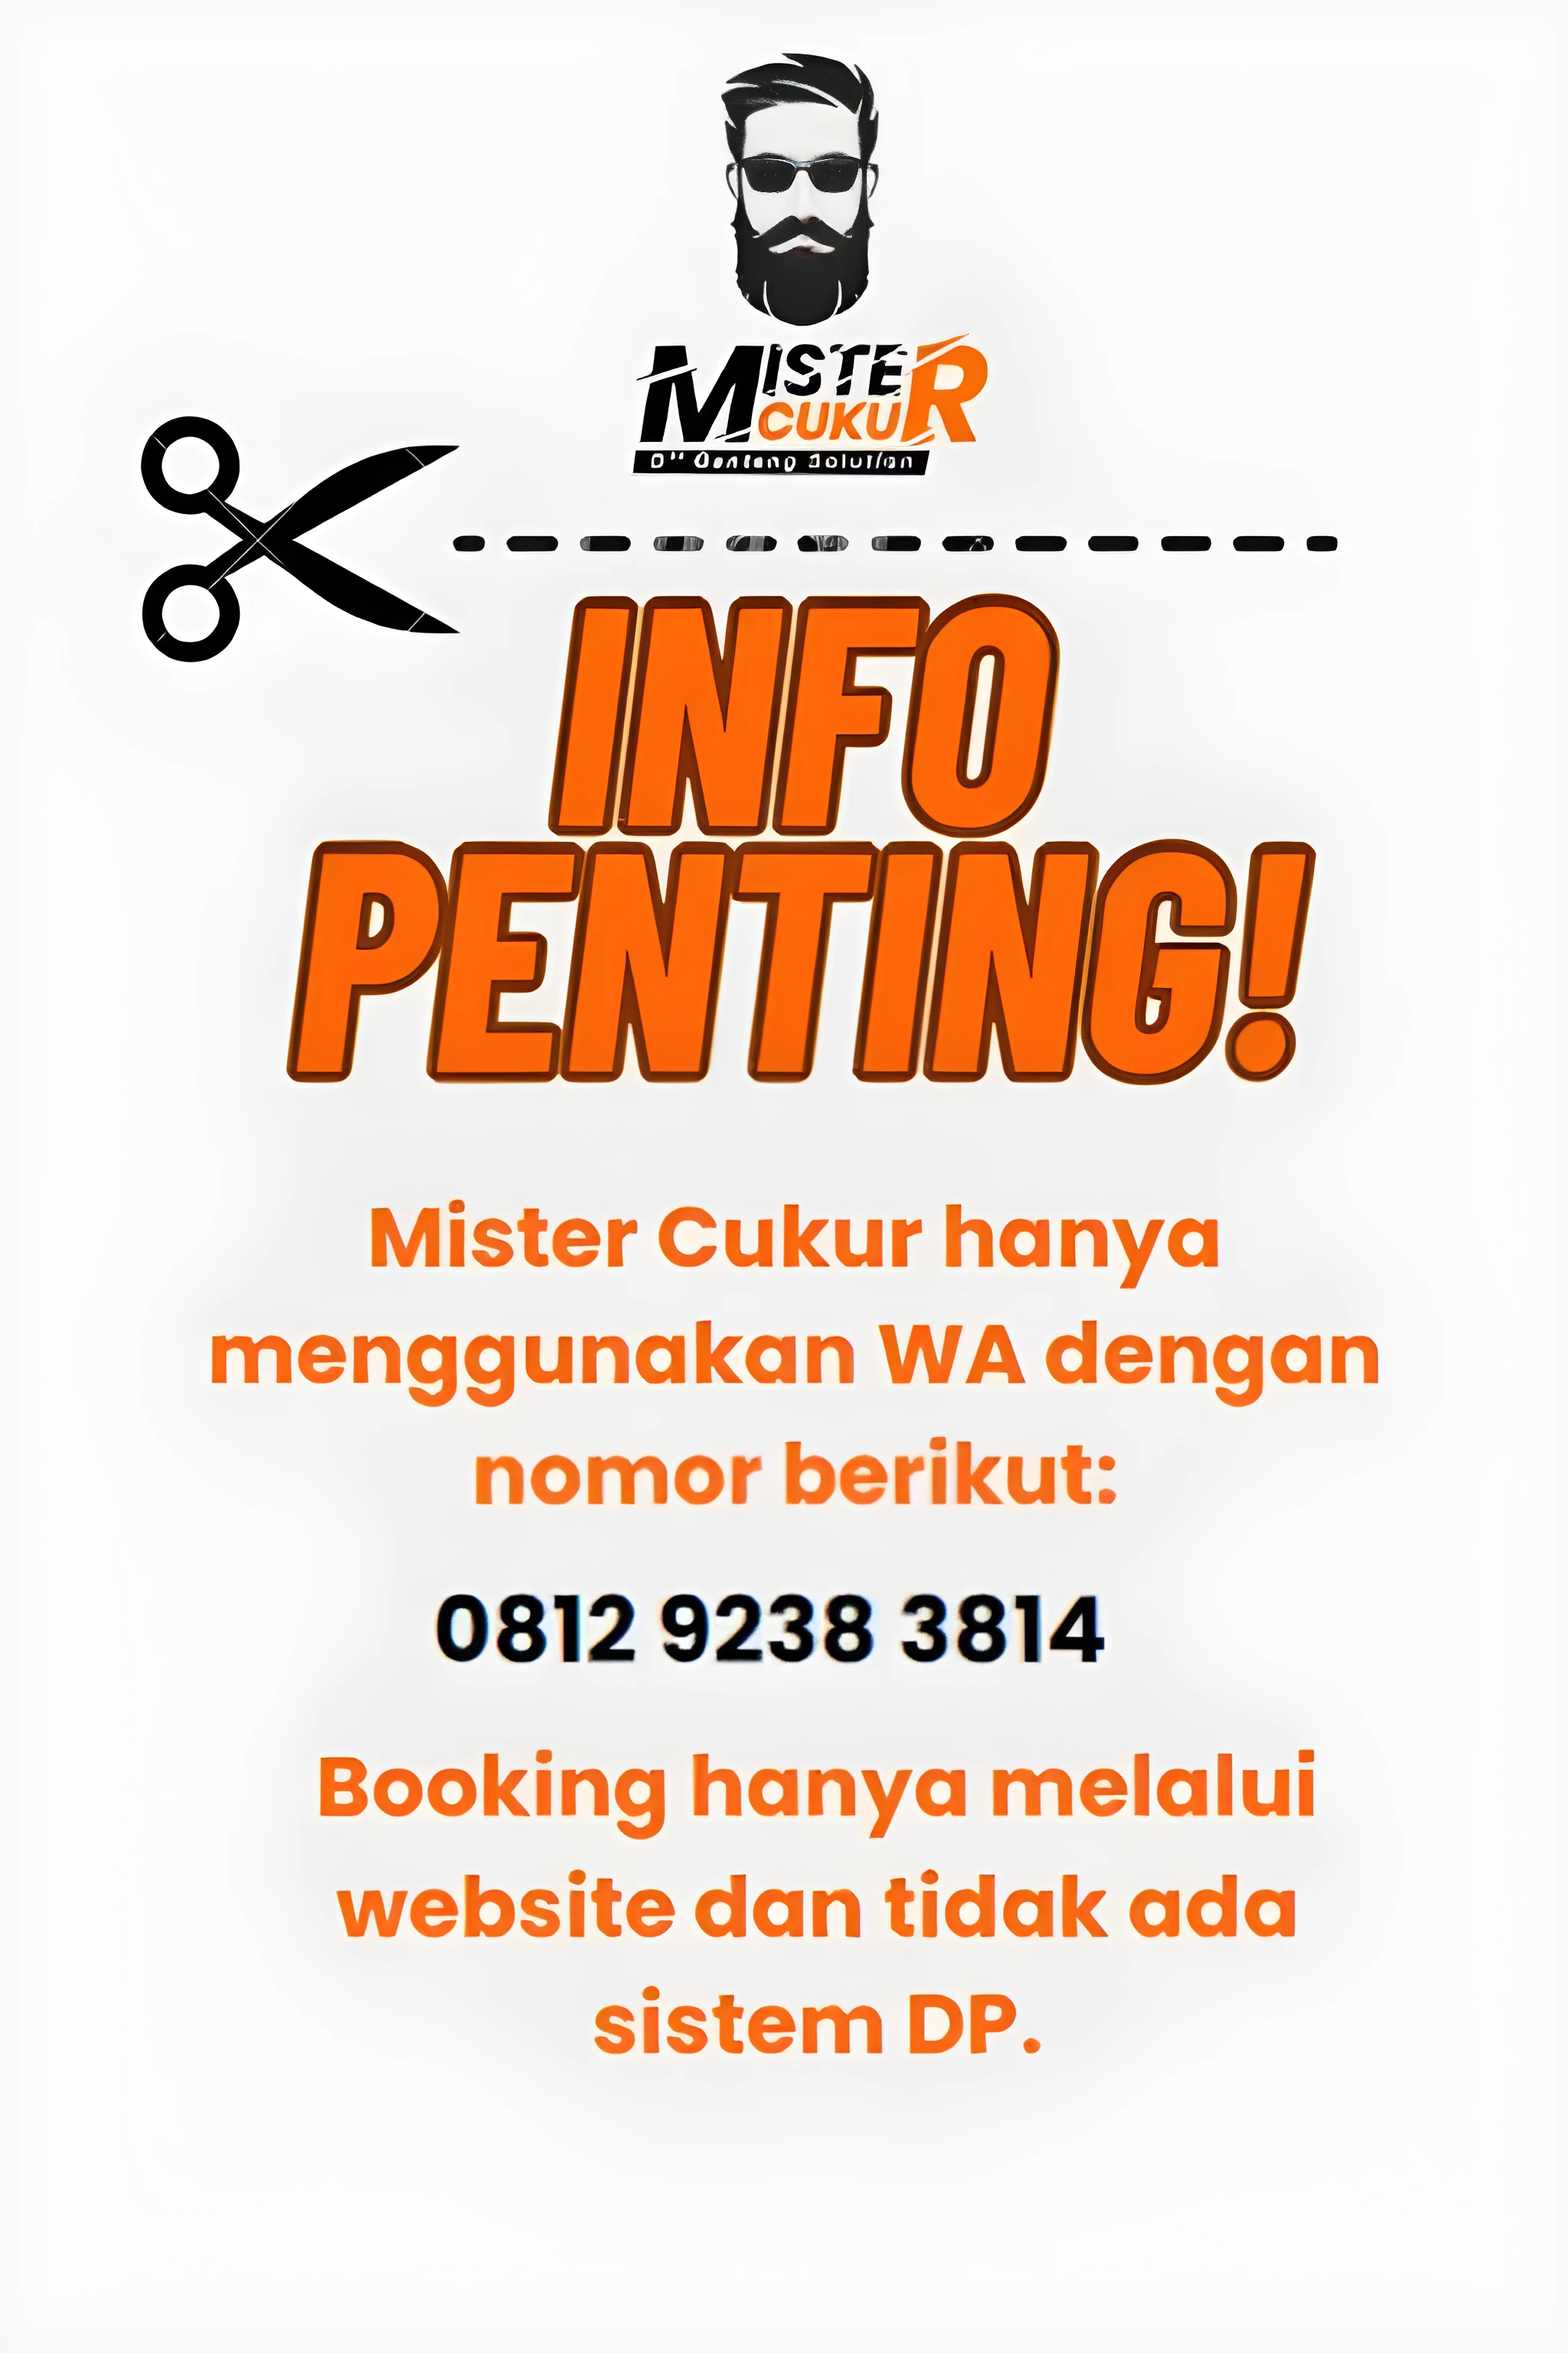
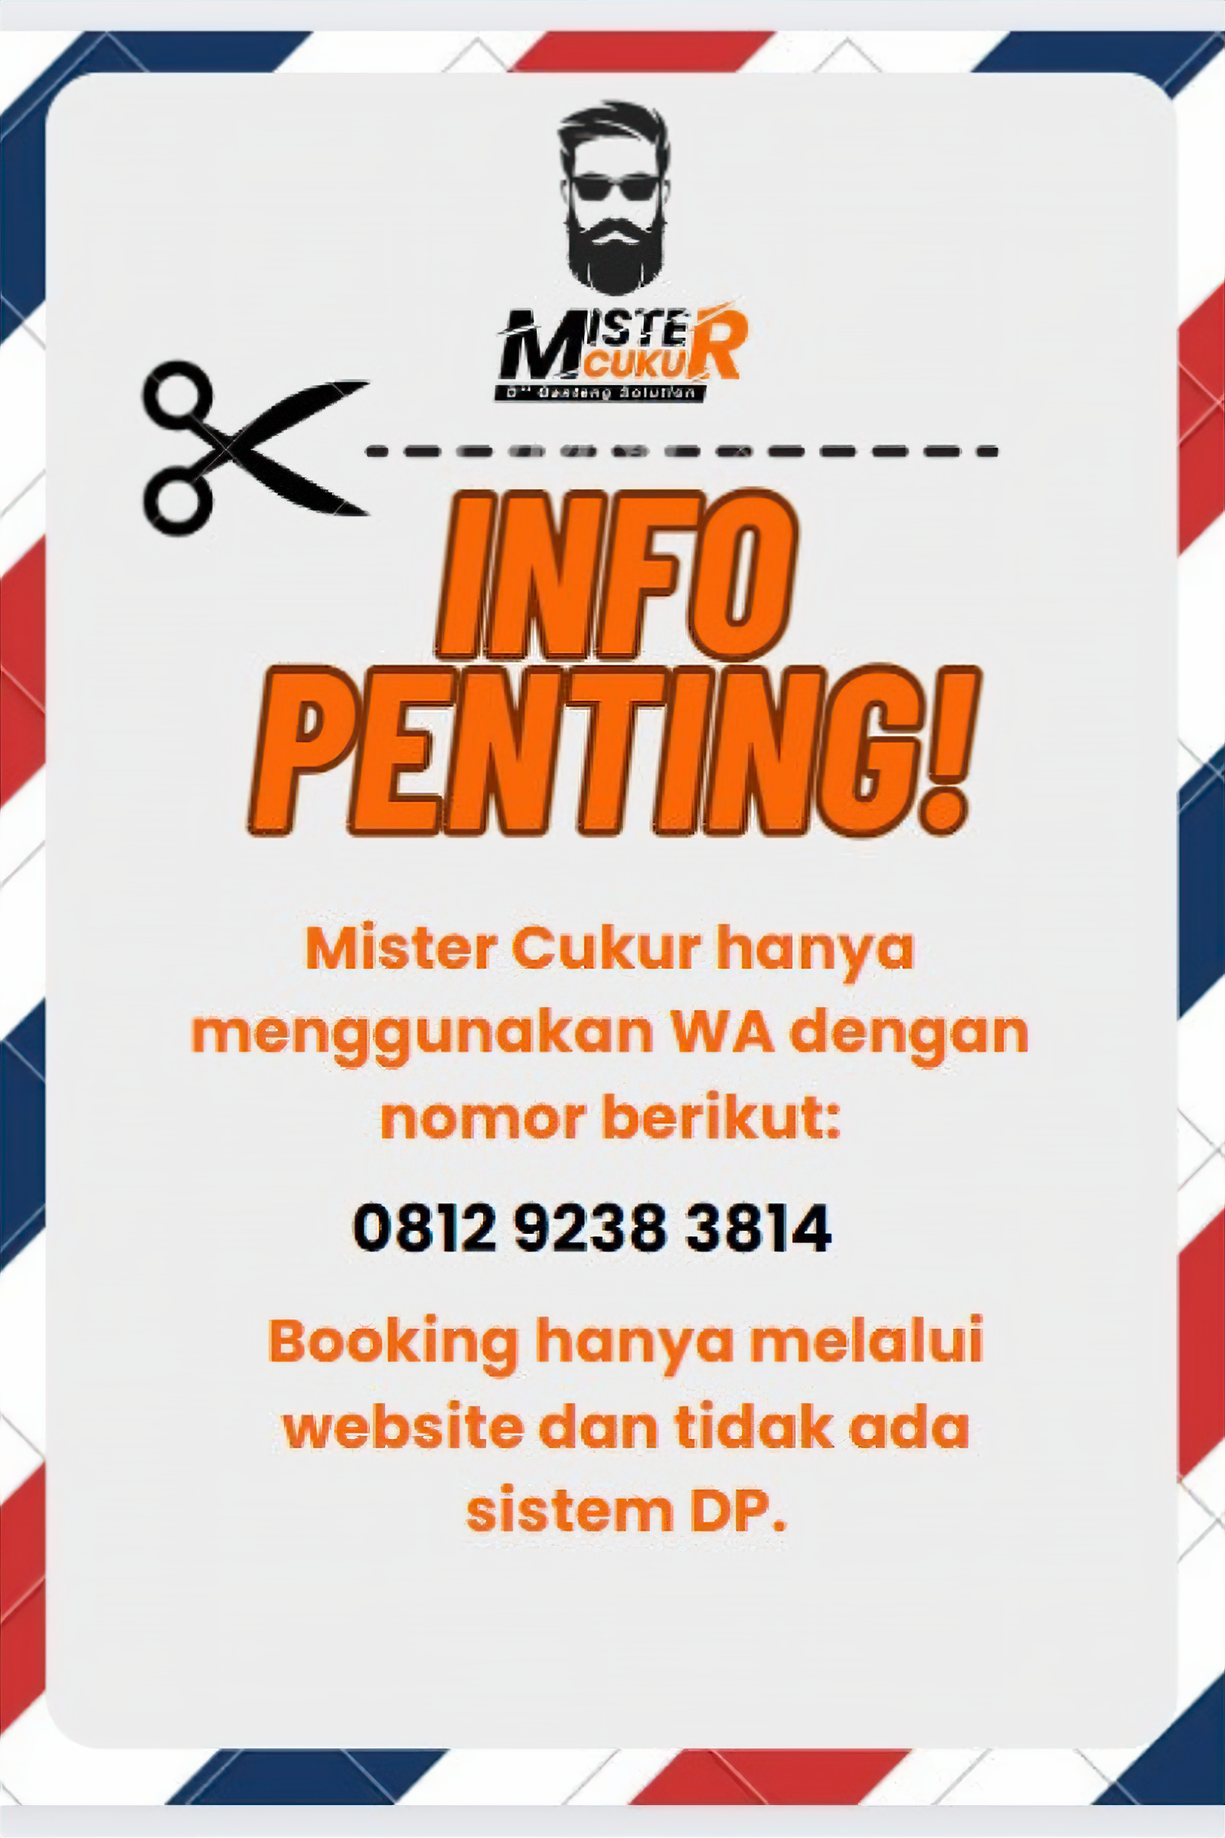
update

diff --git a/components/content.tsx b/components/content.tsx
@@ -42,11 +42,12 @@ const Content = () => {
 
       {/* BUAT JANJI  */}
       <div
-        className="content-1 mb-32 md:mb-0 bg-[rgba(0,0,0,0.8)] text-[#ededed] flex flex-col justify-center h-60"
+        className="content-1 mb-32 md:mb-0 bg-[#ededed] text-black flex flex-col justify-center h-60"
         style={{ alignItems: "center" }}
       >
         <div className="text-center text-sm  md:text-lg font-medium">
-          Ingin buat janji dengan barber kami?
+          Ingin buat janji dengan{" "}
+          <span className="text-[#FA6709]">Mister Cukur</span> ?
         </div>
         <div className="text-center mt-3 flex justify-center flex-col">
           <PopoverButton content={<CalendarComp />} />
@@ -59,10 +60,7 @@ const Content = () => {
       <Layanan />
 
       {/*  TESTIMONI */}
-      <div
-        id="testimoni"
-        className=" bg-[rgba(0,0,0,0.8)] text-[#ededed] py-20 "
-      >
+      <div id="testimoni" className=" bg-[#ededed] text-black py-20 ">
         <div className="w-full flex justify-center">
           <div className="w-11/12 text-sm md:text-2xl flex items-center mb-3">
             Testimoni <DrawingPinIcon className="ml-2 h-4 w-4 md:h-6 md:w-6" />

diff --git a/components/utils/calendar.tsx b/components/utils/calendar.tsx
@@ -46,7 +46,8 @@ const AlertDialogComp = ({ time, date }: any) => {
       <AlertDialog.Content style={{ maxWidth: 450 }}>
         <AlertDialog.Title>Buat Janji?</AlertDialog.Title>
         <AlertDialog.Description size="2">
-          Apakah kamu yakin ingin buat janji dengan Mister Cukur?
+          Apakah kamu yakin ingin buat janji dengan{" "}
+          <span className="text-[#FA6709]">Mister Cukur</span>?
         </AlertDialog.Description>
 
         <Flex gap="3" mt="4" justify="end">
@@ -91,11 +92,11 @@ function CalendarComp() {
       />
       {showTimePicker && (
         <div className="time-picker">
-          <div>Waktu Tersedia</div>
+          <div className="text-black">Waktu Tersedia</div>
           <hr className="mt-1 hr" style={{ borderColor: "#74642e" }} />
           <div
             className="flex justify-between mx-auto font-semibold mt-1"
-            style={{ width: "80%" }}
+            style={{ width: "80%", color: "black" }}
           >
             <div>Morning</div>
             <div>Afternoon</div>

diff --git a/components/footer.tsx b/components/footer.tsx
@@ -1,17 +1,10 @@
 "use client"
 
-import Image from "next/image"
-
 const Footer = () => {
-  const footerData = ["whatsapp", "instagram", "twitter", "facebook"]
-
   return (
-    <div className="flex flex-col w-full justify-center text-center bg-[#FA6709] text-[#ededed]">
+    <div className="flex flex-col w-full justify-center text-center bg-[#FA6709] text-[#ededed] py-10">
       <div className="font-bold text-2xl mt-3">Punya Pertanyaan?</div>
-      <div
-        className="flex flex-col md:flex-row w-4/5 mx-auto"
-        style={{ height: "400px" }}
-      >
+      <div className="flex flex-col md:flex-row w-4/5 mx-auto">
         <div className="w-full md:w-1/2 md:h-3/5 flex flex-col justify-between   mt-4 md:mt-0">
           {/* LOCATION  */}
           <div>

diff --git a/components/navbar.tsx b/components/navbar.tsx
@@ -74,6 +74,10 @@ const MainNav = () => {
       link: "Kontak",
       href: "kontak",
     },
+    {
+      link: "Punya Pertanyaan",
+      href: "kontak",
+    },
   ]
   return (
     <nav
@@ -95,7 +99,7 @@ const MainNav = () => {
         {nav.map((e) => (
           <li
             key={e.link}
-            className={`px-4 py-1 bg-[#FA6709] text-[#ededed] rounded-md hover:text-slate-800 transition-colors underline-offset-4 ${
+            className={`px-4 text-base py-1 bg-[#FA6709] text-[#ededed] rounded-md hover:text-slate-800 transition-colors underline-offset-4 ${
               scrolling && "bg-transparent hover:text-[#FA6709]"
             }`}
           >

diff --git a/components/utils/dialog.tsx b/components/utils/dialog.tsx
@@ -9,15 +9,15 @@ const DialogWithBackgroundFocus = ({ isOpen, setIsOpen }: any) => {
   return (
     <>
       {isOpen && (
-        <div className="overlay">
+        <div className="overlay bg-blue-100">
           <div className="dialog">
             <button className="close-dialog" onClick={closeDialog}>
               <Cross1Icon className="w-4 h-4" />
             </button>
             <Image
               src={"/images/warning-img.png"}
-              width={2000}
-              height={2000}
+              width={2500}
+              height={2500}
               style={{ width: "100%", height: "100%" }}
               alt="dialog"
             />

diff --git a/styles/globals.css b/styles/globals.css
@@ -276,7 +276,7 @@ abbr[title] {
 
 .btn-jam {
   border-radius: 5px;
-  background-color: #18a2b7;
+  background-color: #fa6709;
   color: white;
   height: 30px;
 }
